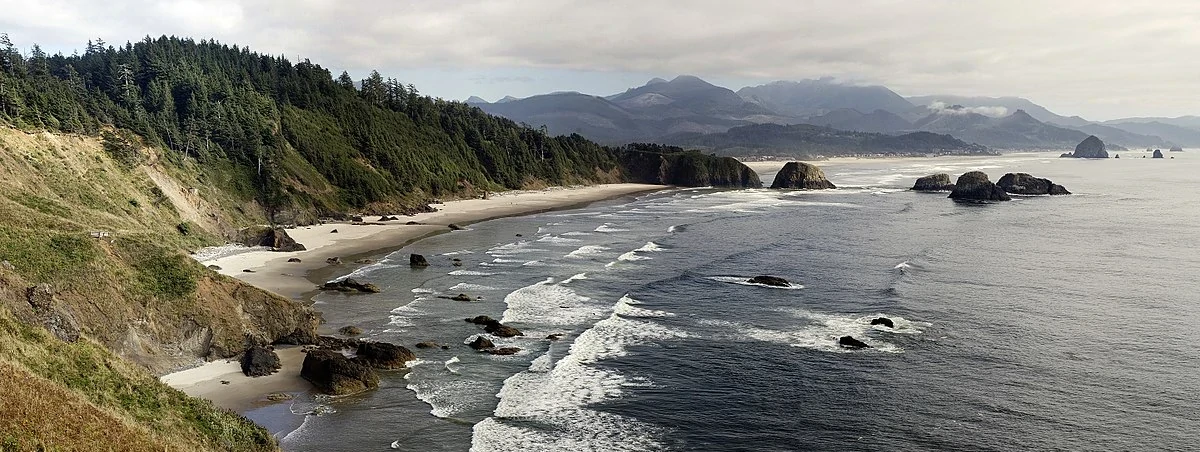
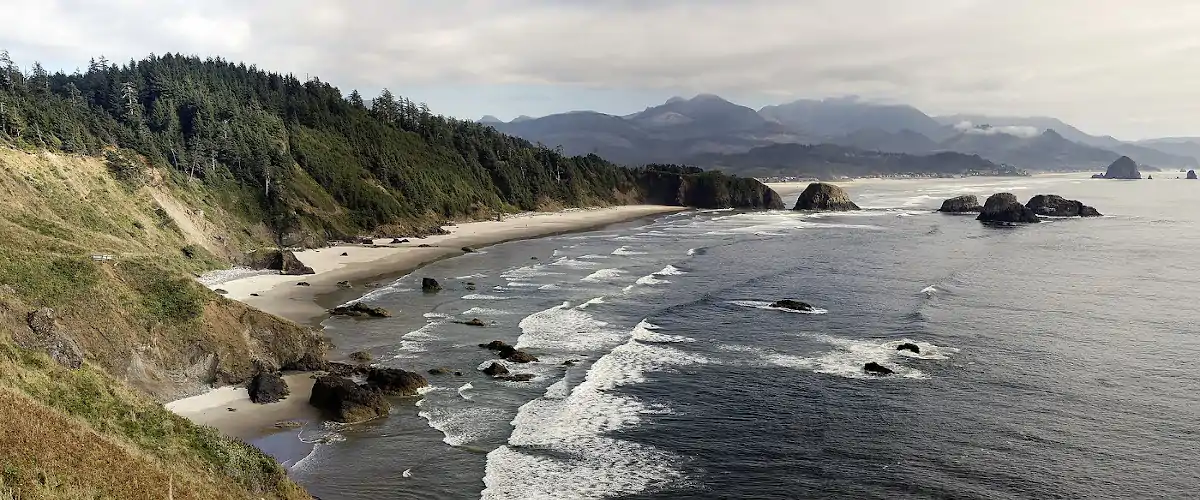
Chamber Updates

diff --git a/chamber/index.html b/chamber/index.html
@@ -44,7 +44,11 @@
     </header>
     <main>
         <div class="hero">
-            <img src="images/coast.webp" alt="Oregon Northwest Coast">
+            <picture>
+                <source media="(max-width: 600px)" srcset="images/wdd230-small.webp">
+                <source media="(max-width: 900px)" srcset="images/wdd230-medium.webp">
+                <img src="images/wdd230.webp" alt="Oregon Northwest Coast" width="1600" height="670">
+            </picture>
             <h1>Northwest Oregon Chamber of Commerce</h1>
             <a href="#" id="call">Join the Chamber!</a>
         </div>
@@ -53,7 +57,9 @@
             <div>
                 <section class="card weather">
                     <h3>[Location]</h3>
-                    <p>[Weather info goes here]</p>
+                    <p id="temp">Temperature: 42°F</p>
+                    <p id="wind">Wind Speed: 16.2 MPH</p>
+                    <p id="windchill"></p>
                 </section>
             </div>
         </div>
@@ -97,12 +103,18 @@
         </div>
     </main>
     <footer>
-        <h3>Taren D. Moss</h3>
-        <p>This website is a project for WDD230</p>
-        <p id="lastModified"></p>
+        <div id="logo">
+            <img src="images/logo.webp" alt="logo">
+        </div>
+        <div class="footer-info">
+            <h3>Taren D. Moss</h3>
+            <p>This website is a project for WDD230</p>
+            <p id="lastModified"></p>
+        </div>
     </footer>
 <script src="scripts/hamburger.js"></script>
 <script src="scripts/getdates.js"></script>
 <script src="scripts/themetoggle.js"></script>
+<script src="scripts/windchill.js"></script>
 </body>
 </html>

diff --git a/chamber/styles/medium.css b/chamber/styles/medium.css
@@ -1,6 +1,6 @@
 @import url("https://fonts.googleapis.com/css?family=Gabarito|Titillium+Web");
 
-@media (min-width: 640px) {
+@media (min-width: 600px) {
     :root {
         --main-color: #683571;
         --secondary-color: #512466;
@@ -20,7 +20,7 @@
 
     nav {
         display: grid;
-        grid-template-rows: 12vh 8vh;
+        grid-template-rows: 10vh 6vh;
         grid-template-columns: 1fr 1fr 1fr;
         margin: 0 auto;
     }
@@ -64,17 +64,12 @@
     }
 
     .hero {
-        grid-template-rows: 12vh 24vh 24vh 16vh;
+        grid-template-rows: 1fr 2fr 2fr 1fr;
         grid-template-columns: 1fr 3fr 1fr;
     }
 
-    .hero > img {
-        content: url(../images/coast_medium.webp);
-        height: 72vh;
-    }
-
     .hero > h1 {
-        font-size: 5vh;
+        font-size: 3vw;
         padding: 1vw;
         margin-top: 5vw;
         background-color: var(--main-color);
@@ -82,9 +77,13 @@
     }
 
     .hero > a {
-        font-size: 4vh;
-        padding: 2vh;
+        font-size: 2.5vw;
+        padding: 2.5vh;
         margin-bottom: 5vw;
+    }
+
+    .weatherspace {
+        font-size: 135%;
     }
 
     .weatherspace, .eventspace, .spotlightspace {
@@ -137,9 +136,27 @@
         font-size: 1.8vw;
     }
 
+    footer {
+        grid-template-columns: 4fr 2fr 4fr 4fr;
+    }
+
+    #logo > img {
+        width: 100px;
+        height: auto;
+        padding: 5px;
+    }
+    
+    .footer-info h3 {
+        font-size: 90%;
+    }
+    
+    .footer-info p {
+        font-size: 90%;
+    }
+
     /** Slider **/
     .switchbox {
-        margin-top: 12.5vh;
+        margin-top: 9.5vh;
     }
 
     .switch {

diff --git a/chamber/styles/base.css b/chamber/styles/base.css
@@ -106,22 +106,25 @@ main {
 
 .hero {
     display: grid;
-    grid-template-rows: 15% 35% 35% 15%;
+    grid-template-rows: 1fr 3fr 3fr 1fr;
     grid-template-columns: 1fr 4fr 1fr;
     align-items: center;
     grid-row: 1/2;
     grid-column: 1/4;
 }
 
-.hero > img {
-    content: url(../images/coast_small.webp);
-    aspect-ratio: auto;
+.hero > picture {
     margin: 0 auto;
     width: 100%;
     grid-row: 1/5;
     grid-column: 1/4;
-    opacity: 0.6;
+    opacity: 0.7;
     z-index: -1;
+}
+
+.hero > picture > img {
+    width: 100%;
+    height: auto;
 }
 
 .hero > h1 {
@@ -155,6 +158,10 @@ main {
 
 .hero > a:hover {
     color: var(--hover-color);
+}
+
+.weatherspace {
+    font-size: 120%;
 }
 
 .weatherspace, .spotlightspace {
@@ -229,6 +236,8 @@ main {
 }
 
 footer {
+    display: grid;
+    grid-template-columns: 1fr 2fr 16fr 1fr;
     color: var(--text-color);
     background-color: var(--main-color);
     margin-top: 2vw;
@@ -236,13 +245,33 @@ footer {
     text-align: center;
 }
 
-footer h3 {
-    font-weight: 400;
-    font-family: var(--title-font);
+#logo {
+    grid-row: 1/2;
+    grid-column: 2/3;
+    align-content: center;
+    margin: auto;
 }
 
-footer p {
+#logo > img {
+    width: 70px;
+    height: auto;
+    padding: 5px;
+}
+
+.footer-info {
+    grid-row: 1/2;
+    grid-column: 3/4;
+}
+
+.footer-info h3 {
+    font-weight: 400;
+    font-family: var(--title-font);
+    font-size: 80%;
+}
+
+.footer-info p {
     font-family: var(--text-font);
+    font-size: 80%;
 }
 
 /** Slider **/

diff --git a/chamber/styles/larger.css b/chamber/styles/larger.css
@@ -1,6 +1,6 @@
 @import url("https://fonts.googleapis.com/css?family=Gabarito|Titillium+Web");
 
-@media (min-width: 1000px) {
+@media (min-width: 900px) {
     :root {
         --main-color: #683571;
         --secondary-color: #512466;
@@ -19,11 +19,14 @@
         grid-template-columns: 1fr 1fr 1fr;
     }
 
-    .hero > img {
-        content: url(../images/coast.webp);
+    .hero > a {
+        font-size: 3vw;
+        padding: 3vh;
+        margin-bottom: 5vw;
     }
 
     .weatherspace {
+        font-size: 150%;
         grid-row: 2/3;
         grid-column: 1/2;
     }
@@ -44,5 +47,17 @@
     .spotlightspace {
         grid-row: 3/4;
         grid-column: 1/4;
+    }
+
+    footer {
+        grid-template-columns: 3fr 2fr 4fr 3fr;
+    }
+
+    .footer-info h3 {
+        font-size: 110%;
+    }
+    
+    .footer-info p {
+        font-size: 110%;
     }
 }

diff --git a/chamber/scripts/windchill.js b/chamber/scripts/windchill.js
@@ -1,0 +1,20 @@
+const outputTarget = document.querySelector("#windchill");
+const tempTarget = document.querySelector("#temp");
+const windTarget = document.querySelector("#wind");
+var temp = 43;
+var wind = 8.2;
+
+function WindChill () {
+    if (temp <= 50 && wind >= 3) {
+        var chill = 35.74 + (0.6215 * temp) - (35.75 * (wind ** 0.16)) + (0.4275 * temp * (wind ** 0.16));
+        tempTarget.textContent = `Temperature: ${temp.toFixed(1)}°F`;
+        windTarget.textContent = `Wind Speed: ${wind.toFixed(1)} MPH`
+        outputTarget.textContent = `Wind Chill: ${chill.toFixed(1)}°F`;
+    }
+    else {
+        console.log("N/A");
+        outputTarget.textContent = "Wind Chill: N/A"
+    }
+}
+
+WindChill();
